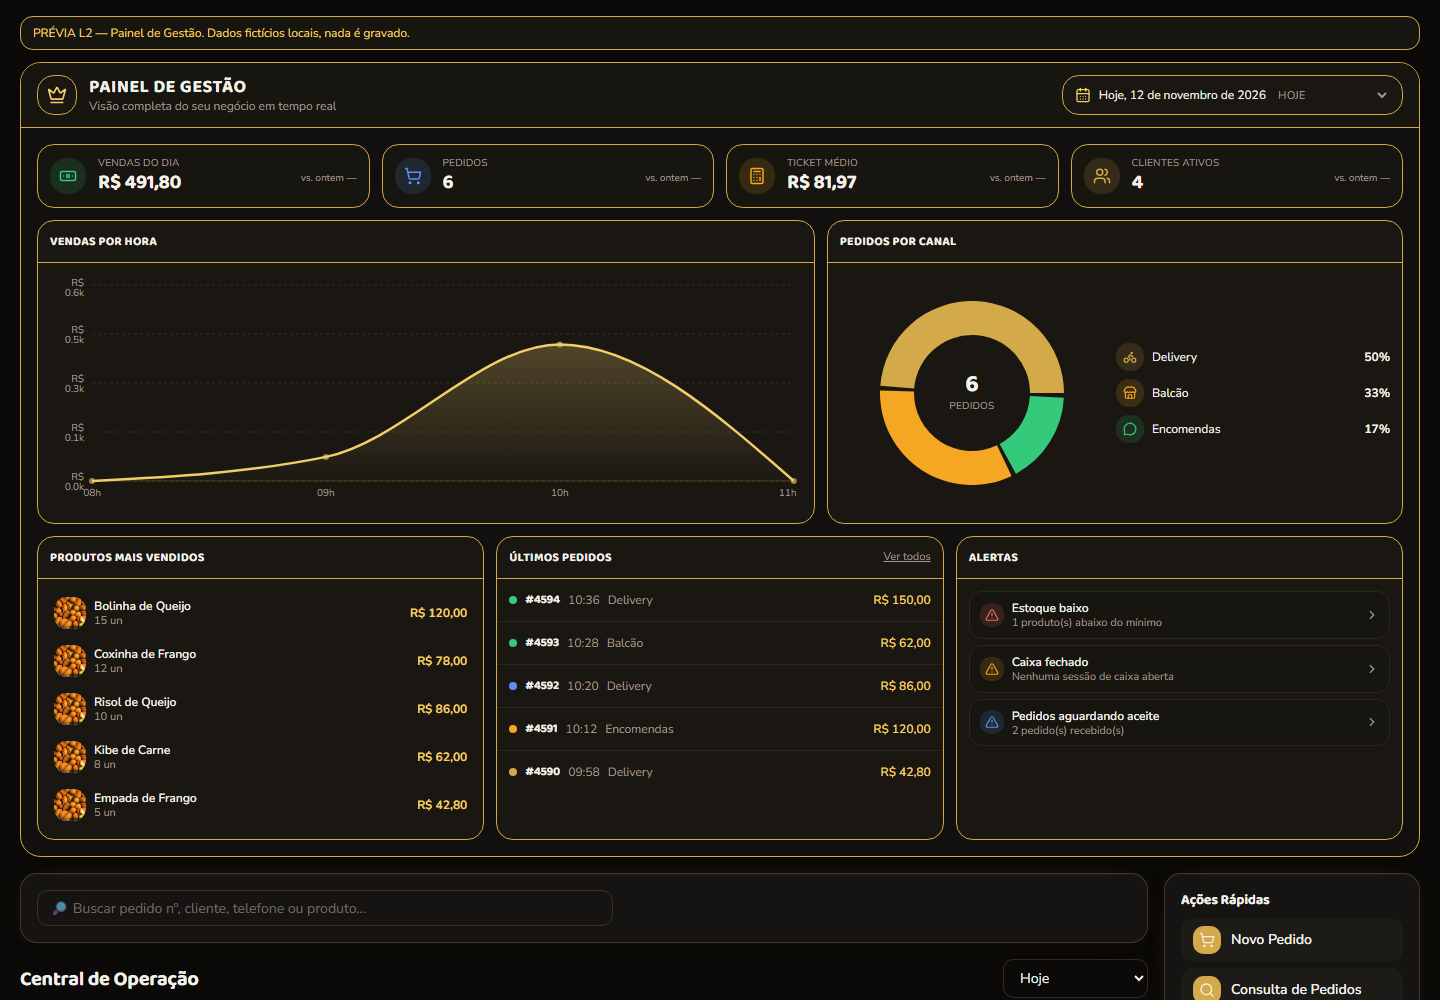
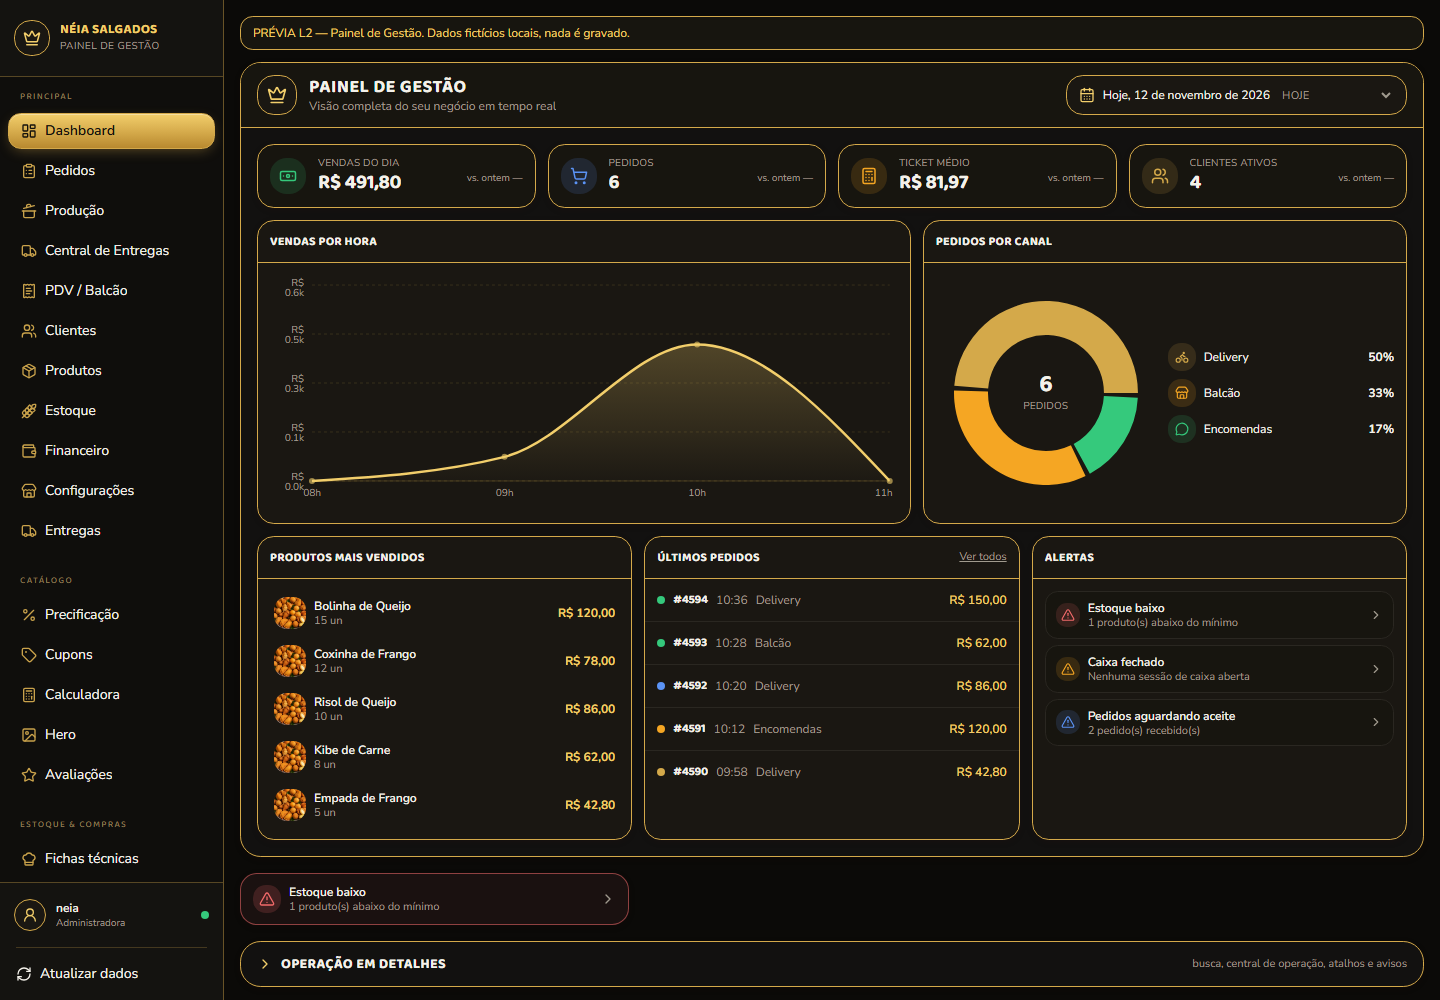
fix(ui): AdminShell renderiza o conteudo (children) + sidebar fiel a referencia
BUG CRITICO (pre-existente): o AdminShell montava a sidebar e descartava {children} - a pagina /admin ficava SO com o menu lateral, sem topbar, sem abas e sem o Dashboard (confirmado no site publicado). Agora o conteudo e renderizado em SidebarInset, ao lado da sidebar.

Aparencia da sidebar conforme a referencia: largura compacta 14rem, moldura dourada, marca com coroa, item ATIVO em pilula dourada, icones dourados, usuario com ponto verde no rodape, sem foto de salgados e sem frase promocional.

Dashboard: 4a metrica mantida como Clientes Ativos (dado real). Busca e acoes secundarias movidas para secao recolhivel 'Operacao em detalhes'; alertas criticos permanecem sempre visiveis.

Typecheck, build, teste:guard (41/41) e git diff --check OK. Sem alteracao em Supabase, autenticacao, Production ou regras de negocio.

diff --git a/src/components/admin/admin-shell.tsx b/src/components/admin/admin-shell.tsx
@@ -1,8 +1,6 @@
 import type { ReactNode } from "react";
 import { Link } from "@tanstack/react-router";
-import { LogOut, RefreshCw, UserRound } from "lucide-react";
-
-import { Button } from "@/components/ui/button";
+import { Crown, LogOut, RefreshCw, UserRound } from "lucide-react";
 
 import {
   Sidebar,
@@ -18,20 +16,19 @@ import {
   SidebarMenuItem,
   SidebarProvider,
   SidebarSeparator,
-  SidebarTrigger,
   useSidebar,
 } from "@/components/ui/sidebar";
 import { ADMIN_NAV } from "./admin-nav";
-import { AdminTopbar } from "./admin-topbar";
-import logo from "@/assets/neia-logo.png.asset.json";
 
 /**
- * Shell do Admin (identidade clara): sidebar branca com pill dourada ativa
- * e topbar clara com conexão real, relógio, usuário e saída.
- * A aba ativa continua controlada pelo estado do React (sem URL).
- * Itens com `href` navegam para rotas staff (PDV, Produção, Central).
- * Todos os estilos usam os tokens .erp-admin (identidade clara oficial).
- * A loja pública nunca recebe essa classe, então nada muda visualmente fora do admin.
+ * Shell do Admin — aparência da referência preto/dourado:
+ * sidebar compacta com moldura dourada, marca (coroa + NÉIA SALGADOS),
+ * item ativo em pilula dourada, ícones claros e usuário no rodapé.
+ *
+ * O menu continua sendo o existente (ADMIN_NAV) — nenhum item duplicado e
+ * nenhuma função removida. A aba ativa continua controlada pelo estado do
+ * React (sem URL); itens com `href` navegam para as rotas staff (PDV,
+ * Produção, Central). Estilos usam os tokens .erp-admin (escuro/dourado).
  */
 export function AdminShell({
   aba,
@@ -49,44 +46,63 @@ export function AdminShell({
   children: ReactNode;
 }) {
   return (
-    <SidebarProvider>
+    <SidebarProvider
+      style={
+        {
+          "--sidebar-width": "14rem",
+          "--sidebar-width-icon": "3.25rem",
+        } as React.CSSProperties
+      }
+    >
       <Sidebar
         collapsible="icon"
-        className="group-data-[variant=inset]:bg-sidebar group-data-[collapsible=icon]:!p-2"
+        className="border-r border-[#D4A94A]/45 bg-[#0F0E0C] group-data-[variant=inset]:bg-sidebar group-data-[collapsible=icon]:!p-2"
       >
-        <SidebarHeader className="border-b border-sidebar-border">
-          <div className="flex items-center gap-2.5 px-1 py-2 group-data-[collapsible=icon]:justify-center group-data-[collapsible=icon]:px-0">
-            <img src={logo.url} alt="Néia Salgados" className="h-9 w-auto shrink-0" />
+        <SidebarHeader className="border-b border-[#D4A94A]/35 bg-[#141310]">
+          <div className="flex items-center gap-2.5 px-1.5 py-3 group-data-[collapsible=icon]:justify-center group-data-[collapsible=icon]:px-0">
+            <span className="grid size-9 shrink-0 place-items-center rounded-xl border border-[#D4A94A] bg-[#1A1712]">
+              <Crown className="size-[18px] text-[#F2CE6B]" aria-hidden />
+            </span>
             <div className="min-w-0 group-data-[collapsible=icon]:hidden">
-              <p className="truncate font-display text-base leading-tight text-sidebar-foreground">
+              <p className="truncate font-display text-[13px] font-bold uppercase leading-tight tracking-wide text-[#F2CE6B]">
                 Néia Salgados
               </p>
-              <p className="truncate text-xs text-sidebar-foreground/70">Administração</p>
+              <p className="truncate text-[10px] uppercase tracking-wider text-muted-foreground">
+                Painel de Gestão
+              </p>
             </div>
           </div>
         </SidebarHeader>
 
         <MenuLateral aba={aba} onAba={onAba} />
 
-        <SidebarFooter>
-          <SidebarSeparator className="bg-sidebar-border" />
+        <SidebarFooter className="border-t border-[#D4A94A]/35 bg-[#141310]">
+          <div className="flex items-center gap-2.5 px-1.5 py-2 group-data-[collapsible=icon]:justify-center group-data-[collapsible=icon]:px-0">
+            <span className="grid size-8 shrink-0 place-items-center rounded-full border border-[#D4A94A] bg-[#1A1712]">
+              <UserRound className="size-4 text-[#F2CE6B]" aria-hidden />
+            </span>
+            <div className="min-w-0 flex-1 group-data-[collapsible=icon]:hidden">
+              <p className="truncate text-xs font-semibold text-foreground">
+                {usuario?.split("@")[0] ?? "Equipe"}
+              </p>
+              <p className="truncate text-[10px] text-muted-foreground">Administradora</p>
+            </div>
+            <span
+              className="size-2 shrink-0 rounded-full bg-[#35C97C] group-data-[collapsible=icon]:hidden"
+              title="Online"
+              aria-label="Online"
+            />
+          </div>
+          <SidebarSeparator className="bg-[#D4A94A]/25" />
           <SidebarMenu>
-            {usuario ? (
-              <SidebarMenuItem>
-                <SidebarMenuButton tooltip={usuario} className="cursor-default text-sidebar-foreground">
-                  <UserRound />
-                  <span className="truncate">{usuario}</span>
-                </SidebarMenuButton>
-              </SidebarMenuItem>
-            ) : null}
             <SidebarMenuItem>
               <SidebarMenuButton
                 tooltip="Atualizar dados"
                 onClick={onRefresh}
-                className="hover:bg-sidebar-accent hover:text-sidebar-accent-foreground"
+                className="h-9 min-h-9 text-sidebar-foreground hover:bg-[#D4A94A]/15 hover:text-[#F2CE6B]"
               >
                 <RefreshCw />
-                <span>Atualizar dados</span>
+                <span className="truncate">Atualizar dados</span>
               </SidebarMenuButton>
             </SidebarMenuItem>
             {onSair ? (
@@ -94,16 +110,19 @@ export function AdminShell({
                 <SidebarMenuButton
                   tooltip="Sair"
                   onClick={onSair}
-                  className="hover:bg-sidebar-accent hover:text-sidebar-accent-foreground"
+                  className="h-9 min-h-9 text-sidebar-foreground hover:bg-[#F16A6A]/15 hover:text-[#F16A6A]"
                 >
                   <LogOut />
-                  <span>Sair</span>
+                  <span className="truncate">Sair</span>
                 </SidebarMenuButton>
               </SidebarMenuItem>
             ) : null}
           </SidebarMenu>
         </SidebarFooter>
       </Sidebar>
+      {/* Conteúdo da aba (antes era descartado: a página ficava só com a
+          sidebar). O SidebarInset reserva o espaço da sidebar no desktop. */}
+      <SidebarInset>{children}</SidebarInset>
     </SidebarProvider>
   );
 }
@@ -111,34 +130,35 @@ export function AdminShell({
 /**
  * Navegação lateral (dentro do provider): no desktop fica sempre aberta
  * (sem recolher); no celular fecha o drawer ao escolher o destino.
+ * Item ativo = pilula dourada (como na referência).
  */
 function MenuLateral({ aba, onAba }: { aba: string; onAba: (v: string) => void }) {
-  const { isMobile, state, openMobile, setOpenMobile } = useSidebar();
+  const { isMobile, setOpenMobile } = useSidebar();
 
   function ir(v: string) {
     onAba(v);
     if (isMobile) setOpenMobile(false);
   }
   return (
-    <SidebarContent className="no-scrollbar">
+    <SidebarContent className="no-scrollbar bg-[#0F0E0C]">
       {ADMIN_NAV.map((grupo) => (
-        <SidebarGroup key={grupo.label}>
-          <SidebarGroupLabel className="px-2 font-display text-[0.7rem] uppercase tracking-wide text-sidebar-foreground/70">
+        <SidebarGroup key={grupo.label} className="py-1">
+          <SidebarGroupLabel className="px-3 font-display text-[9px] uppercase tracking-[0.14em] text-[#8A7A52] group-data-[collapsible=icon]:hidden">
             {grupo.label}
           </SidebarGroupLabel>
           <SidebarGroupContent>
-            <div role="tablist" aria-orientation="vertical" className="flex flex-col gap-0.5">
+            <div role="tablist" aria-orientation="vertical" className="flex flex-col gap-1">
               {grupo.items.map((item) => (
                 <SidebarMenuItem key={item.value}>
                   {item.href ? (
                     <SidebarMenuButton
                       asChild
                       tooltip={item.label}
-                      className="min-h-[44px] text-sidebar-foreground hover:bg-sidebar-accent hover:text-sidebar-accent-foreground"
+                      className="h-9 min-h-9 rounded-lg border border-transparent px-3 text-sidebar-foreground hover:border-[#D4A94A]/50 hover:bg-[#D4A94A]/12 hover:text-[#F2CE6B]"
                     >
                       <Link to={item.href} onClick={() => isMobile && setOpenMobile(false)}>
-                        <item.icon />
-                        <span>{item.label}</span>
+                        <item.icon className="text-[#C9A24B]" />
+                        <span className="truncate">{item.label}</span>
                       </Link>
                     </SidebarMenuButton>
                   ) : (
@@ -146,13 +166,14 @@ function MenuLateral({ aba, onAba }: { aba: string; onAba: (v: string) => void }
                       tooltip={item.label}
                       onClick={() => ir(item.value)}
                       aria-current={aba === item.value ? "page" : undefined}
-                      className={aba === item.value
-                        ? "min-h-[44px] bg-sidebar-accent font-semibold text-sidebar-foreground shadow-card hover:bg-sidebar-accent hover:text-sidebar-foreground"
-                        : "min-h-[44px] text-sidebar-foreground hover:bg-sidebar-accent hover:text-sidebar-accent-foreground"
+                      className={
+                        aba === item.value
+                          ? "erp-btn-gold h-9 min-h-9 rounded-lg border border-[#D4A94A] bg-gradient-to-b from-[#F2CE6B] to-[#D4A94A] px-3 font-semibold text-[#14120C] shadow-card hover:bg-gradient-to-b hover:from-[#F2CE6B] hover:to-[#D4A94A] hover:text-[#14120C]"
+                          : "h-9 min-h-9 rounded-lg border border-transparent px-3 text-sidebar-foreground hover:border-[#D4A94A]/50 hover:bg-[#D4A94A]/12 hover:text-[#F2CE6B]"
                       }
                     >
-                      <item.icon />
-                      <span>{item.label}</span>
+                      <item.icon className={aba === item.value ? "text-[#14120C]" : "text-[#C9A24B]"} />
+                      <span className="truncate">{item.label}</span>
                     </SidebarMenuButton>
                   )}
                 </SidebarMenuItem>

diff --git a/src/components/admin/dashboard-admin.tsx b/src/components/admin/dashboard-admin.tsx
@@ -350,6 +350,12 @@ export function DashboardAdmin({
 
   const totalPedidos = doDia.length;
 
+  /* Alertas de severidade máxima — exibidos fora do acordeão, sempre visíveis. */
+  const alertasCriticos = useMemo(
+    () => (alertas ?? []).filter((a: any) => a.tom === "perigo"),
+    [alertas],
+  );
+
   return (
     <div className="flex flex-col gap-4">
       {/* ------------------------------------------------------------------
@@ -652,28 +658,67 @@ export function DashboardAdmin({
         </div>
       </section>
 
-      {/* Blocos funcionais preservados (busca, operação, atalhos, avisos) */}
-      <div className="flex flex-col gap-4 xl:flex-row">
-        <div className="min-w-0 flex-1 space-y-4">
-          <BuscaGlobal
-            termo={busca}
-            onTermo={setBusca}
-            pedidos={lista}
-            produtos={produtos ?? []}
-            profiles={profiles ?? []}
-            onIrPedido={(numero) => {
-              setPedidoFoco(String(numero));
-              setAba("pedidos");
-            }}
-            onIrProduto={(nome) => {
-              setProdutoFoco(nome);
-              setAba("produtos");
-            }}
-            onIrCliente={(nome) => {
-              setClienteFoco(nome);
-              setAba("clientes");
-            }}
-          />
+      {/* Alertas operacionais CRÍTICOS — sempre visíveis, fora do acordeão */}
+      {alertasCriticos.length > 0 ? (
+        <div className="grid gap-2 sm:grid-cols-2 lg:grid-cols-3">
+          {alertasCriticos.map((a) => (
+            <button
+              key={a.id}
+              type="button"
+              onClick={() => setAba(a.aba)}
+              className="flex items-center gap-2 rounded-xl border border-[#F16A6A]/55 bg-[#1A1110] px-3 py-2.5 text-left shadow-card transition-colors hover:border-[#F16A6A]"
+            >
+              <span className="grid size-7 shrink-0 place-items-center rounded-lg bg-[#F16A6A]/18 text-[#F16A6A]">
+                <TriangleAlert className="size-4" aria-hidden />
+              </span>
+              <span className="min-w-0 flex-1 leading-tight">
+                <span className="block truncate text-xs font-semibold text-foreground">
+                  {a.titulo}
+                </span>
+                <span className="block truncate text-[11px] text-muted-foreground">{a.desc}</span>
+              </span>
+              <ChevronRight className="size-4 shrink-0 text-muted-foreground" aria-hidden />
+            </button>
+          ))}
+        </div>
+      ) : null}
+
+      {/* Detalhes da operação — seção recolhível abaixo do painel */}
+      <details className="group overflow-hidden rounded-2xl border border-[#D4A94A] bg-[#121110] shadow-card">
+        <summary className="flex cursor-pointer list-none items-center justify-between gap-3 px-4 py-3 hover:bg-[#17150F]">
+          <span className="flex items-center gap-2 font-display text-sm font-bold uppercase tracking-wide text-foreground">
+            <ChevronRight
+              className="size-4 text-[#F2CE6B] transition-transform group-open:rotate-90"
+              aria-hidden
+            />
+            Operação em detalhes
+          </span>
+          <span className="hidden text-[11px] text-muted-foreground sm:block">
+            busca, central de operação, atalhos e avisos
+          </span>
+        </summary>
+        <div className="border-t border-[#D4A94A]/35 p-3 sm:p-4">
+          <div className="flex flex-col gap-4 xl:flex-row">
+            <div className="min-w-0 flex-1 space-y-4">
+              <BuscaGlobal
+                termo={busca}
+                onTermo={setBusca}
+                pedidos={lista}
+                produtos={produtos ?? []}
+                profiles={profiles ?? []}
+                onIrPedido={(numero) => {
+                  setPedidoFoco(String(numero));
+                  setAba("pedidos");
+                }}
+                onIrProduto={(nome) => {
+                  setProdutoFoco(nome);
+                  setAba("produtos");
+                }}
+                onIrCliente={(nome) => {
+                  setClienteFoco(nome);
+                  setAba("clientes");
+                }}
+              />
 
 
         <CentralOperacao
@@ -804,6 +849,8 @@ export function DashboardAdmin({
         </div>
       </aside>
       </div>
+        </div>
+      </details>
     </div>
   );
 }

diff --git a/src/routes/preview-l2-gestao.tsx b/src/routes/preview-l2-gestao.tsx
@@ -1,13 +1,14 @@
 import { createFileRoute } from "@tanstack/react-router";
 import { DashboardAdmin } from "@/components/admin/dashboard-admin";
+import { AdminShell } from "@/components/admin/admin-shell";
 import { PEDIDOS, PRODUTOS, CLIENTES_STATS } from "@/routes/preview-l2-gestao-data";
 
 /**
  * PRÉVIA VISUAL DO PAINEL DE GESTÃO (L2 — referência preto/dourado).
  *
- * Renderiza o componente REAL do Dashboard com dados fictícios LOCAIS,
- * apenas para conferir a composição visual contra a referência aprovada.
- * Não consulta nem grava no Supabase; nenhuma fila real é usada.
+ * Renderiza o componente REAL do Dashboard dentro do shell REAL do admin
+ * (sidebar da referência), com dados fictícios LOCAIS, apenas para conferir
+ * a composição visual. Não consulta nem grava no Supabase.
  */
 
 export const Route = createFileRoute("/preview-l2-gestao")({
@@ -19,28 +20,30 @@ export const Route = createFileRoute("/preview-l2-gestao")({
 
 function PreviewL2Gestao() {
   return (
-    <div className="min-h-screen bg-background p-3 sm:p-4">
-      <div className="mx-auto max-w-[1400px]">
-        <p className="mb-3 rounded-lg border border-[#D4A94A] bg-[#17150F] px-3 py-2 text-xs text-[#F2CE6B]">
-          PRÉVIA L2 — Painel de Gestão. Dados fictícios locais, nada é gravado.
-        </p>
-        <DashboardAdmin
-          pedidos={PEDIDOS}
-          produtos={PRODUTOS}
-          profiles={[]}
-          clientesStats={CLIENTES_STATS}
-          periodo="hoje"
-          setPeriodo={() => {}}
-          setAba={() => {}}
-          notLidas={[]}
-          marcarLida={() => {}}
-          busca=""
-          setBusca={() => {}}
-          setPedidoFoco={() => {}}
-          setProdutoFoco={() => {}}
-          setClienteFoco={() => {}}
-        />
+    <AdminShell aba="dashboard" onAba={() => {}} onRefresh={() => {}} usuario="neia@neiasalgados.com">
+      <div className="min-h-screen bg-background p-3 sm:p-4">
+        <div className="mx-auto max-w-[1400px]">
+          <p className="mb-3 rounded-lg border border-[#D4A94A] bg-[#17150F] px-3 py-2 text-xs text-[#F2CE6B]">
+            PRÉVIA L2 — Painel de Gestão. Dados fictícios locais, nada é gravado.
+          </p>
+          <DashboardAdmin
+            pedidos={PEDIDOS}
+            produtos={PRODUTOS}
+            profiles={[]}
+            clientesStats={CLIENTES_STATS}
+            periodo="hoje"
+            setPeriodo={() => {}}
+            setAba={() => {}}
+            notLidas={[]}
+            marcarLida={() => {}}
+            busca=""
+            setBusca={() => {}}
+            setPedidoFoco={() => {}}
+            setProdutoFoco={() => {}}
+            setClienteFoco={() => {}}
+          />
+        </div>
       </div>
-    </div>
+    </AdminShell>
   );
 }
